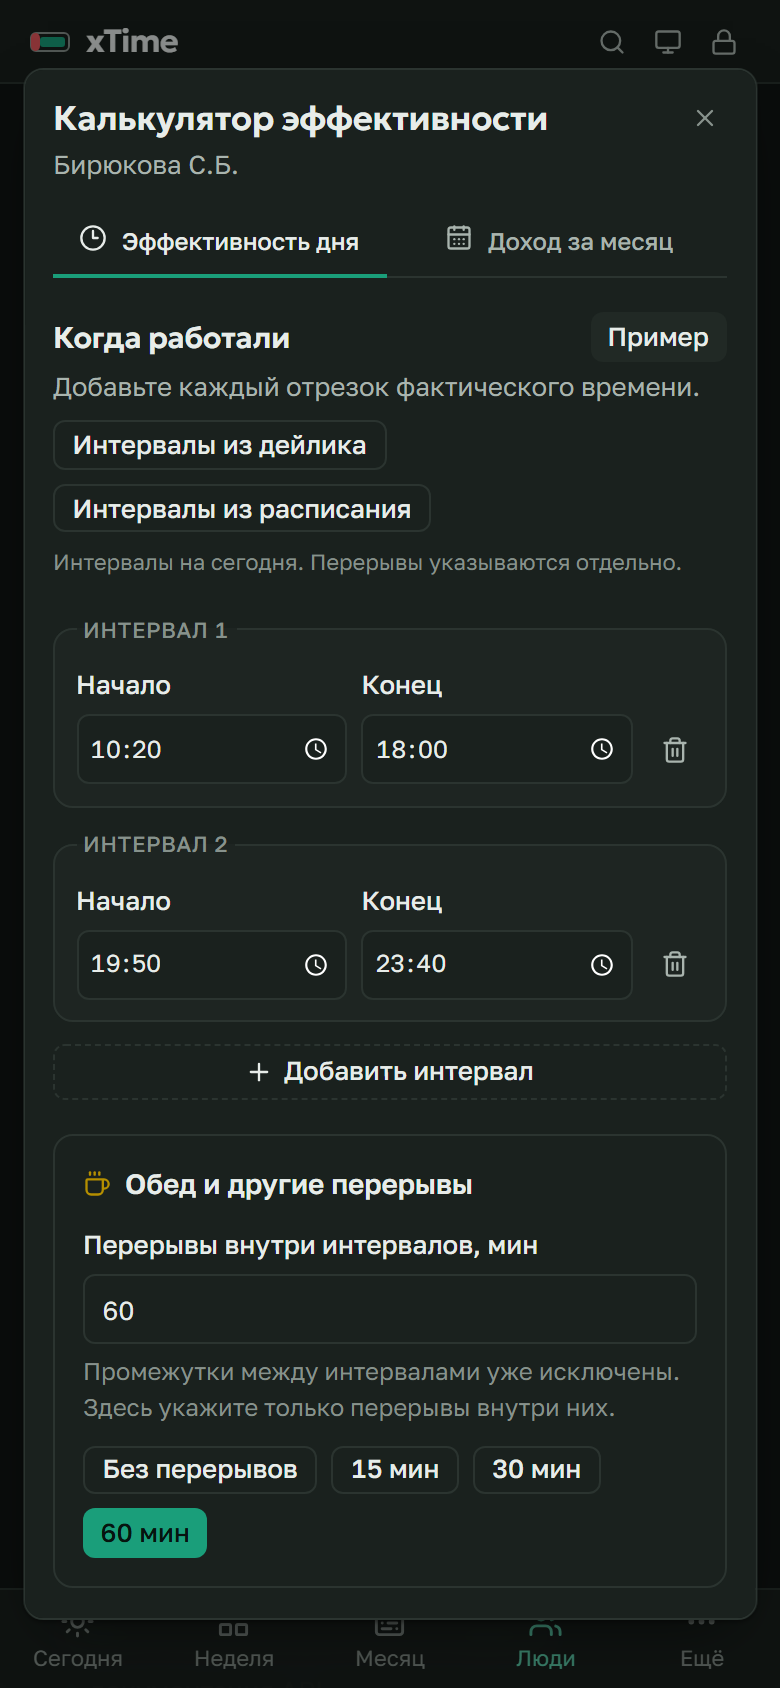
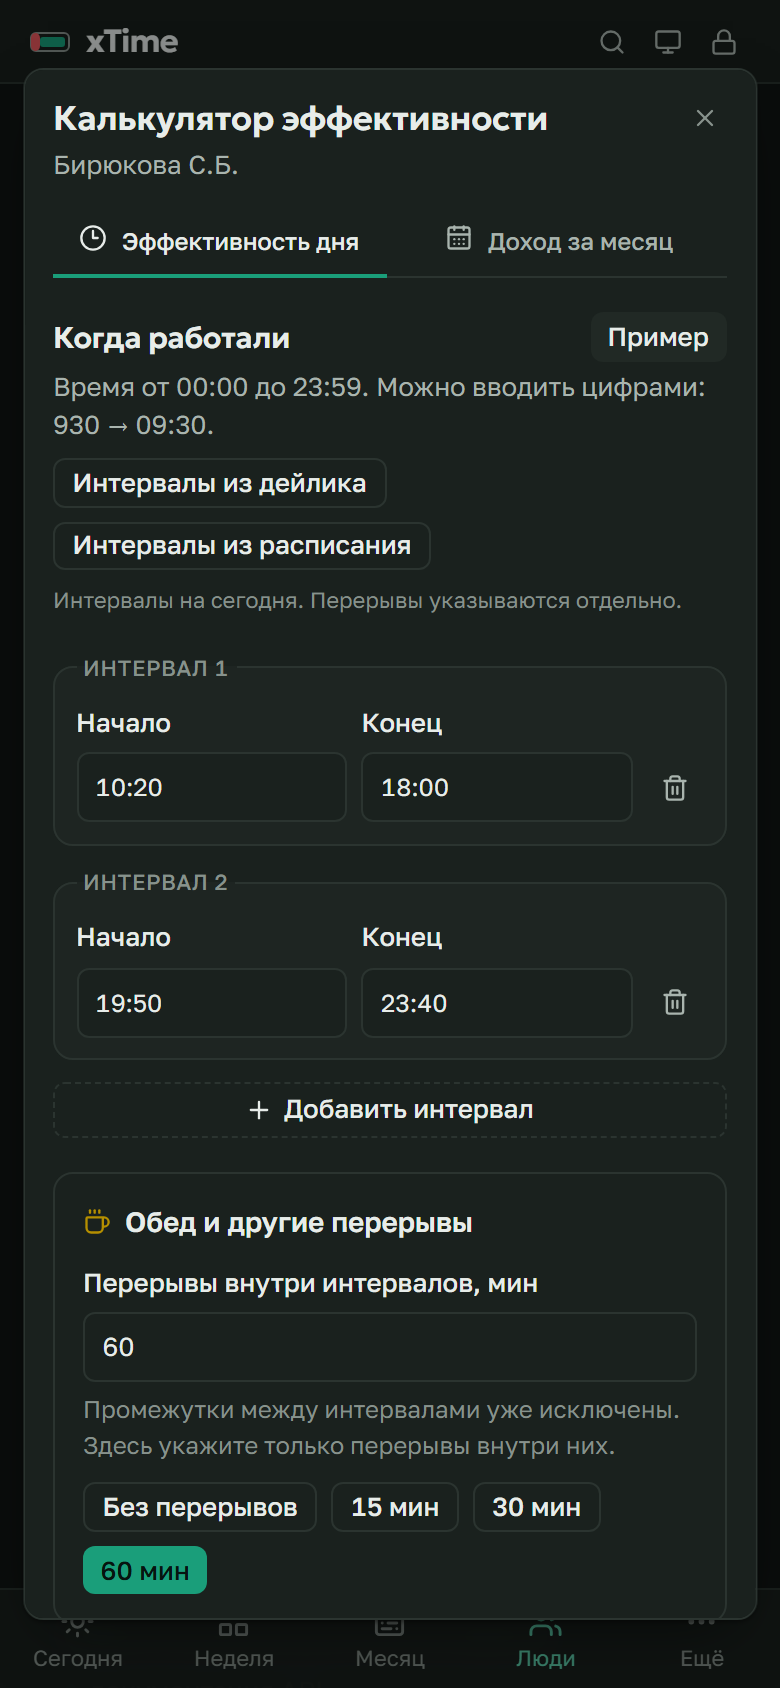
fix(calculator): убрал AM/PM из ввода времени
- заменил нативные поля браузера на единый 24-часовой ввод
- добавил короткую запись времени для цифровой клавиатуры телефона
- сохранил проверку неверных часов без скрытого преобразования AM/PM
- уточнил отметку ночного окончания по рассчитанному интервалу
- проверил английскую локаль на компьютере и телефоне
- обновил инструкцию и скриншоты калькулятора

diff --git a/frontend/src/pages/employee/calculator/DayCalculator.tsx b/frontend/src/pages/employee/calculator/DayCalculator.tsx
@@ -9,7 +9,7 @@ import { hm } from "@/lib/format";
 import { copyText } from "@/lib/phone";
 
 import { Breakdown, Metric } from "./fields";
-import { readNumber } from "./input";
+import { normalizeClock, readNumber } from "./input";
 import { calculateDay, serializeDayIntervals, type IntervalDraft } from "./model";
 
 type Row = IntervalDraft & { id: number };
@@ -25,6 +25,10 @@ export function DayCalculator({ day, onMonth }: { day?: DayCell; onMonth: (effic
   const update = (id: number, field: "start" | "end", text: string) => {
     setEdited(true);
     setIntervals((rows) => rows.map((row) => row.id === id ? { ...row, [field]: text, nextDay: undefined } : row));
+  };
+  const finishClock = (row: Row, field: "start" | "end") => {
+    const normalized = normalizeClock(row[field]);
+    if (normalized !== row[field]) update(row.id, field, normalized);
   };
   const fill = (times: number[][], minutes = 0) => {
     setIntervals(times.map(([start, end]) => ({
@@ -44,7 +48,7 @@ export function DayCalculator({ day, onMonth }: { day?: DayCell; onMonth: (effic
           <h3 className="text-[15px] font-semibold">Когда работали</h3>
           <Button size="sm" variant="ghost" onClick={() => fill([[37200, 64800], [71400, 85200]], 60)}>Пример</Button>
         </div>
-        <p className="mt-1 text-[13px] text-ink-2">Добавьте каждый отрезок фактического времени.</p>
+        <p className="mt-1 text-[13px] text-ink-2">Время от 00:00 до 23:59. Можно вводить цифрами: 930 → 09:30.</p>
         {day?.fact?.intervals.length || day?.plan?.kind === "work" ? <div className="mt-2 flex flex-wrap gap-2">
           {day?.fact?.intervals.length ? <Button size="sm" onClick={() => fill(day.fact!.intervals)}>Интервалы из дейлика</Button> : null}
           {day?.plan?.kind === "work" && day.plan.intervals.length ? <Button size="sm" onClick={() => fill(day.plan!.intervals)}>Интервалы из расписания</Button> : null}
@@ -56,14 +60,16 @@ export function DayCalculator({ day, onMonth }: { day?: DayCell; onMonth: (effic
         {intervals.map((row, index) => <fieldset key={row.id} className="min-w-0 rounded-lg border border-line bg-surface-2/50 p-3">
           <legend className="px-1 text-[11px] font-medium uppercase tracking-wide text-ink-3">Интервал {index + 1}</legend>
           <div className="grid grid-cols-[minmax(0,1fr)_minmax(0,1fr)_auto] items-end gap-2">
-            <Field label="Начало"><Input type="time" aria-label={`Начало интервала ${index + 1}`} value={row.start}
-              onChange={(event) => update(row.id, "start", event.target.value)} className="h-10 min-w-0 px-1.5 text-sm" /></Field>
-            <Field label="Конец"><Input type="time" aria-label={`Конец интервала ${index + 1}`} value={row.end}
-              onChange={(event) => update(row.id, "end", event.target.value)} className="h-10 min-w-0 px-1.5 text-sm" /></Field>
+            <Field label="Начало"><Input type="text" inputMode="numeric" placeholder="ЧЧ:ММ" autoComplete="off" spellCheck={false}
+              aria-label={`Начало интервала ${index + 1}`} value={row.start} onBlur={() => finishClock(row, "start")}
+              onChange={(event) => update(row.id, "start", event.target.value)} className="h-10 min-w-0 text-sm" /></Field>
+            <Field label="Конец"><Input type="text" inputMode="numeric" placeholder="ЧЧ:ММ" autoComplete="off" spellCheck={false}
+              aria-label={`Конец интервала ${index + 1}`} value={row.end} onBlur={() => finishClock(row, "end")}
+              onChange={(event) => update(row.id, "end", event.target.value)} className="h-10 min-w-0 text-sm" /></Field>
             <Button variant="ghost" size="icon" className="mb-1" disabled={intervals.length === 1} aria-label={`Удалить интервал ${index + 1}`}
               onClick={() => setIntervals((rows) => rows.filter((item) => item.id !== row.id))}><Trash2 /></Button>
           </div>
-          {row.start && row.end && (row.end < row.start || row.nextDay) ? <p className="mt-2 text-[11px] text-ink-2">Окончание на следующий день</p> : null}
+          {value?.intervals.find((interval) => interval.index === index)?.nextDay ? <p className="mt-2 text-[11px] text-ink-2">Окончание на следующий день</p> : null}
         </fieldset>)}
         <Button className="w-full border-dashed" onClick={() => { setIntervals((rows) => [...rows, { id: nextId.current++, start: "", end: "" }]); setEdited(true); }} disabled={intervals.length >= 12}>
           <Plus />Добавить интервал

diff --git a/frontend/e2e/calculator-time.smoke.spec.ts b/frontend/e2e/calculator-time.smoke.spec.ts
@@ -1,0 +1,62 @@
+import { expect, test } from "@playwright/test";
+
+import { calculatorExample, installCalculatorExample, openCalculator } from "./calculator-fixtures";
+
+for (const mobile of [false, true]) {
+  test.describe(`калькулятор: время без AM/PM · ${mobile ? "телефон" : "компьютер"}`, () => {
+    // Английская локаль воспроизводит окружение с нативным 12-часовым выбором времени.
+    test.use({
+      locale: "en-US",
+      viewport: mobile ? { width: 390, height: 844 } : { width: 1280, height: 900 },
+      isMobile: mobile,
+      hasTouch: mobile,
+    });
+
+    test("24-часовой ввод, короткая запись и проверка неверного времени", async ({ page }) => {
+      const example = await calculatorExample(page.request);
+      await installCalculatorExample(page, example);
+      await page.goto(example.url);
+      const dialog = await openCalculator(page);
+      const start = dialog.getByLabel("Начало интервала 1", { exact: true });
+      const end = dialog.getByLabel("Конец интервала 1", { exact: true });
+      const result = dialog.getByLabel("Текст для дейлика", { exact: true });
+      await expect(dialog.locator('input[type="time"]')).toHaveCount(0);
+      for (const field of [start, end]) {
+        await expect(field).toHaveAttribute("type", "text");
+        await expect(field).toHaveAttribute("inputmode", "numeric");
+        await expect(field).toHaveAttribute("placeholder", "ЧЧ:ММ");
+      }
+
+      await start.pressSequentially("19:50");
+      await end.pressSequentially("23:40");
+      await end.blur();
+      await expect(start).toHaveValue("19:50");
+      await expect(end).toHaveValue("23:40");
+      await expect(dialog.getByText("3:50", { exact: true }).first()).toBeVisible();
+      await expect(result).toHaveText("19:50 - 23:40\nЭффективность: 100%");
+
+      // Цифровая клавиатура телефона не обязана иметь двоеточие.
+      await start.fill("930");
+      await end.fill("1820");
+      await end.blur();
+      await expect(start).toHaveValue("09:30");
+      await expect(end).toHaveValue("18:20");
+      await expect(dialog.getByText("8:50", { exact: true }).first()).toBeVisible();
+      await expect(result).toHaveText("09:30 - 18:20\nЭффективность: 100%");
+
+      await start.fill("9");
+      await start.blur();
+      await expect(start).toHaveValue("09:00");
+      await expect(result).toHaveText("09:00 - 18:20\nЭффективность: 100%");
+
+      for (const invalid of ["25:00", "12:70", "11:30 PM"]) {
+        await end.fill(invalid);
+        await end.blur();
+        await expect(end).toHaveValue(invalid);
+        await expect(dialog.getByRole("alert")).toContainText(/время|интервал/i);
+        await expect(dialog.getByRole("button", { name: "Скопировать для дейлика", exact: true })).toHaveCount(0);
+      }
+      expect(await dialog.evaluate((element) => element.scrollWidth <= element.clientWidth + 1)).toBe(true);
+    });
+  });
+}

diff --git a/frontend/src/pages/employee/calculator/input.ts b/frontend/src/pages/employee/calculator/input.ts
@@ -7,3 +7,23 @@ export function readNumber(text: string): number {
   const value = text.trim().replace(",", ".");
   return /^\d+(?:\.\d+)?$/.test(value) ? Number(value) : NaN;
 }
+
+/** Единый 24-часовой ввод, в том числе цифрами с клавиатуры телефона. */
+export function normalizeClock(text: string): string {
+  const value = text.trim();
+  const separated = /^(\d{1,2}):(\d{1,2})$/.exec(value);
+  let hours: number;
+  let minutes: number;
+  if (separated) {
+    hours = Number(separated[1]);
+    minutes = Number(separated[2]);
+  } else if (/^\d{1,4}$/.test(value)) {
+    hours = Number(value.length <= 2 ? value : value.slice(0, -2));
+    minutes = value.length <= 2 ? 0 : Number(value.slice(-2));
+  } else {
+    return text;
+  }
+  // Не исправляем неверные часы и не превращаем AM/PM в другое время молча.
+  if (hours > 23 || minutes > 59) return text;
+  return `${String(hours).padStart(2, "0")}:${String(minutes).padStart(2, "0")}`;
+}

diff --git a/docs/finance.md b/docs/finance.md
@@ -72,7 +72,7 @@
 
 В профиле каждого сотрудника доступна кнопка **Калькулятор эффективности**. Расчёты выполняются в браузере и не меняют сообщения, условия сотрудника или начисления.
 
-- **Эффективность дня**: указать рабочие интервалы и минуты обеда/других перерывов внутри них. Промежутки между интервалами уже исключены. Можно подставить сегодняшние интервалы из расписания или дейлика; перерывы вводятся отдельно. Копирование даёт интервалы и целый процент, который принимает парсер.
+- **Эффективность дня**: указать рабочие интервалы и минуты обеда/других перерывов внутри них. Время всегда вводится в 24-часовом формате, без AM/PM и зависимости от языка браузера. Можно набрать `930` или `1820` — при выходе из поля получится `09:30` или `18:20`. Промежутки между интервалами уже исключены. Можно подставить сегодняшние интервалы из расписания или дейлика; перерывы вводятся отдельно. Копирование даёт интервалы и целый процент, который принимает парсер.
 - Например, `10:20–18:00 + 19:50–23:40` и 60 минут обеда дают 11:30 фактического и 10:30 эффективного времени: 91,30%. В дейлике — 91%, после округления таблица учтёт 10:27:54. Точный и округлённый результаты показаны рядом.
 - **Доход за месяц → Цель по сумме**: выбрать месяц, желаемую сумму и эффективность будущей работы. Калькулятор учитывает уже накопленные эффективные часы, полный оклад, проектные премии и готовый месячный штраф. Дополнительное время округляется вверх до минуты. Можно распределить его на указанное число оставшихся рабочих дней.
 - **Расчёт по часам**: задать фактические часы за весь месяц и эффективность либо эффективные часы напрямую. Результат показывает оклад, оплату переработки, премии и общую сумму.
